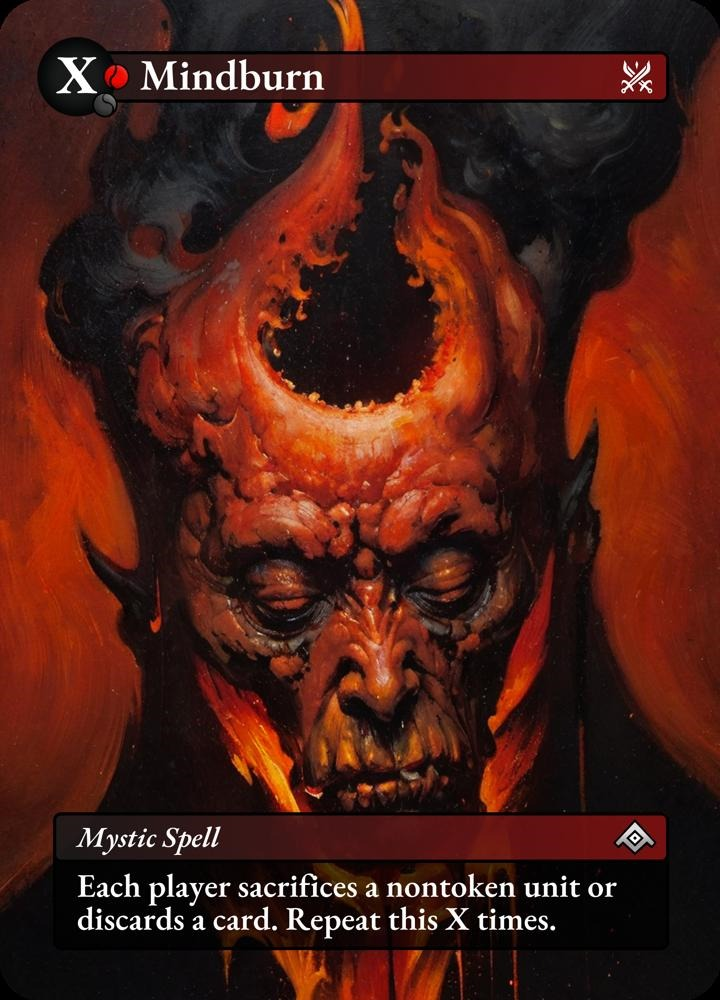
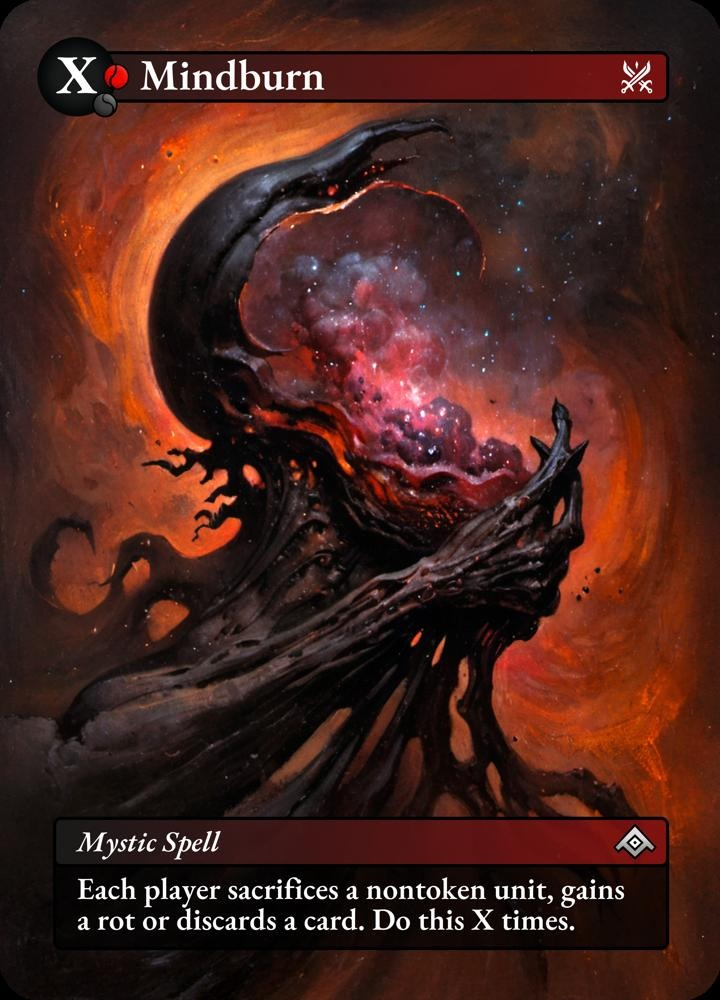
inbox-1568323276030091455: Mindburn's scan is its new printing; the scan readers re-read
The owner (2026-11-06, #steward) attached the new Mindburn render in reply to
the handoff: 720x1000, the new art and the new text ("Each player sacrifices a
nontoken unit, gains a rot or discards a card. Do this X times.") that
2ec171c3 already put in the oracle. Saved as data/cards/Mindburn.jpg with the
old scan's own JPEG quantization tables, 4:2:0 and JFIF header, so it is
encoded like its neighbours (PSNR 47.1 dB against the owner's PNG; the old
scan scores 13.1).

Generated data re-read off the scans, by their own scripts:
  classify_complexity.py  Mindburn still Simple (0.991 -> 0.951)
  read_text_boxes.py      Mindburn's type bar 813 -> 818 px
  read_card_faces.py      Mindburn's orb still reads Dark + Fire, X; 0
                          contradictions; every control reproduced
  npm run extract         catalogue textTop 0.813 -> 0.818
build_anchors.py was not re-run: Mindburn has no graft/augment ability, so
it has no anchor to move (and the script did not finish in 20 min here).

The rerun also moved rows for cards whose scans were replaced after these
files were last built, and nothing else: Torrential Reclamation (scan
replaced 2026-10-25, 8128635d; textTop 0.785 -> 0.781) and Feed to Hooba,
Greed Angel, Proph, Sarcophage, Tithe Enforcer (scans replaced 2026-09-21,
53750764; complexity scores only, every Simple/Complex call unchanged).
Filed as BL-70: a replaced scan leaves its scan-read data stale and no test
[…]

diff --git a/client/ledgers/backlog.ts b/client/ledgers/backlog.ts
@@ -1221,6 +1221,44 @@ const OPEN: Entry[] = [
       'steward/test-discord.mjs',
     ],
   },
+  {
+    id: 'BL-70',
+    slug: 'scan-readers-notice-a-replaced-scan',
+    title: 'A replaced card scan leaves its scan-read data stale, and nothing notices',
+    area: 'client',
+    size: 'S',
+    status: 'open',
+    track: 'qol',
+    said:
+      'You fixed the Mindburn TEXT but the actual card image needs to be updated. (2026-11-06)',
+    means:
+      'Swapping Mindburn\'s scan (inbox-1568323276030091455) meant re-running the scan readers, and that rerun '
+      + 'moved rows for six OTHER cards: text-boxes.json (Torrential Reclamation\'s type bar 785 → 781 px, its '
+      + 'scan replaced 2026-10-25 by CT-374, 8128635d) and complexity-overrides.json (Feed to Hooba, Greed Angel, '
+      + 'Proph, Sarcophage, Tithe Enforcer: scores only, every Simple/Complex call unchanged; scans replaced '
+      + '2026-09-21 by 53750764, the file generated 2026-09-05). So each scan replacement so far left the data '
+      + 'read off it stale, and no test can tell. Also: the repo\'s own .venv has Pillow but no numpy, so none of '
+      + 'bot/pipeline/{classify_complexity,read_text_boxes,read_card_faces,build_anchors}.py runs in it (the '
+      + '2026-11-06 run borrowed a py3.10 venv that had both): bot/pipeline/requirements.txt names numpy, but the '
+      + 'home box\'s steward clone never installed it. And '
+      + 'build_anchors.py did not finish in 20 min on the steward\'s two cores (mod_anchors.json was not re-read: '
+      + 'it may be stale for the scans replaced 2026-09-21 too). Fix: each scan reader records a short sha256 of '
+      + 'every scan it read beside its row, and a node test hashes data/cards/*.jpg and fails naming the cards '
+      + 'whose derived rows were read off a different file; and the steward clone\'s venv gets '
+      + 'bot/pipeline/requirements.txt installed (a box change, not a repo one).',
+    doneWhen: [
+      'Replacing a card scan without re-running the scan readers fails a test that names the card',
+    ],
+    decided: [],
+    asks: [],
+    deps: [],
+    touches: [
+      'bot/pipeline/classify_complexity.py',
+      'bot/pipeline/read_text_boxes.py',
+      'bot/pipeline/read_card_faces.py',
+      'bot/pipeline/build_anchors.py',
+    ],
+  },
 ];
 
 /** The whole ledger, open and closed, in id order — the export every reader

diff --git a/client/ui/updates.ts b/client/ui/updates.ts
@@ -45,6 +45,7 @@ const KIND_LABEL: Record<UpdateKind, string> = { new: 'New', fix: 'Fix', change:
 
 /** NEWEST FIRST. Add the next push's line at the top. */
 export const UPDATES: readonly Update[] = [
+  { date: '2026-11-06', kind: 'change', text: 'Mindburn\'s card picture is now its new printing, with the new art and the new text on the card itself.' },
   { date: '2026-11-06', kind: 'change', text: 'Mindburn now has its new text: each player sacrifices a nontoken unit, gains a rot or discards a card, X times. Gaining a rot is always an option, so nobody runs out of choices.' },
   { date: '2026-11-06', kind: 'new', text: 'Four or more identical units in one region, like a crowd of Robots, now stand as one overlapping stack with a count on it. Hover the stack, or tap its count, to fan them all out.' },
   { date: '2026-11-06', kind: 'fix', text: 'During a battle, when the board is short on room, your opponent\'s units no longer spread far apart across the screen, and the last of them no longer slips out of sight. They stand side by side, overlapping only when there are too many.' },
